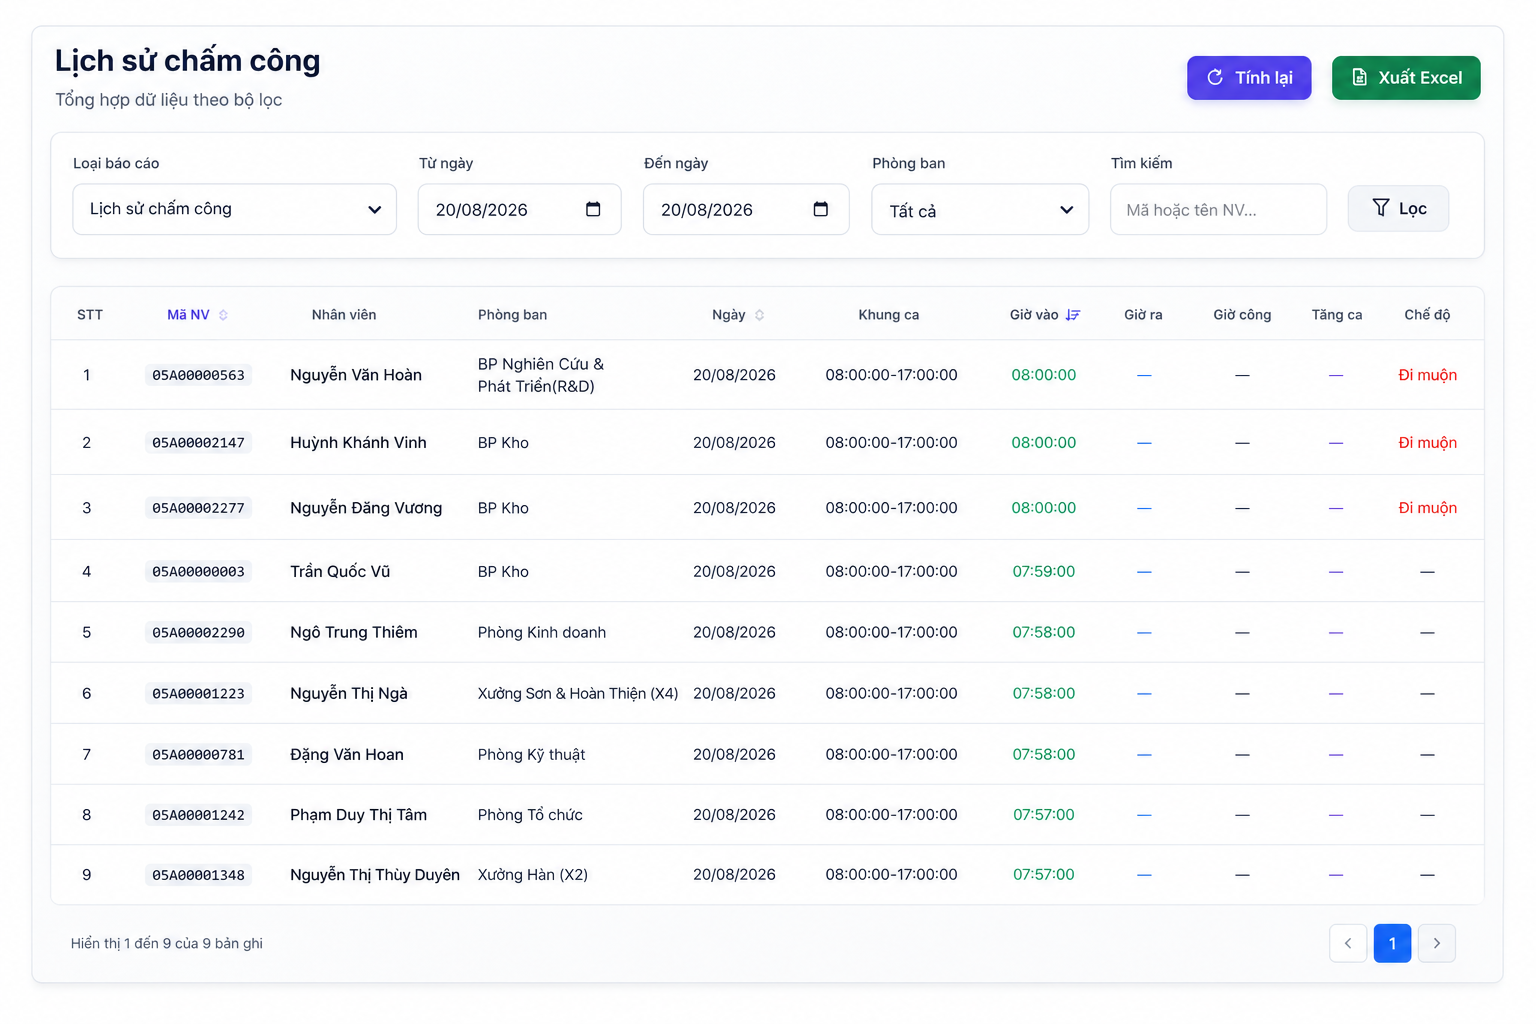
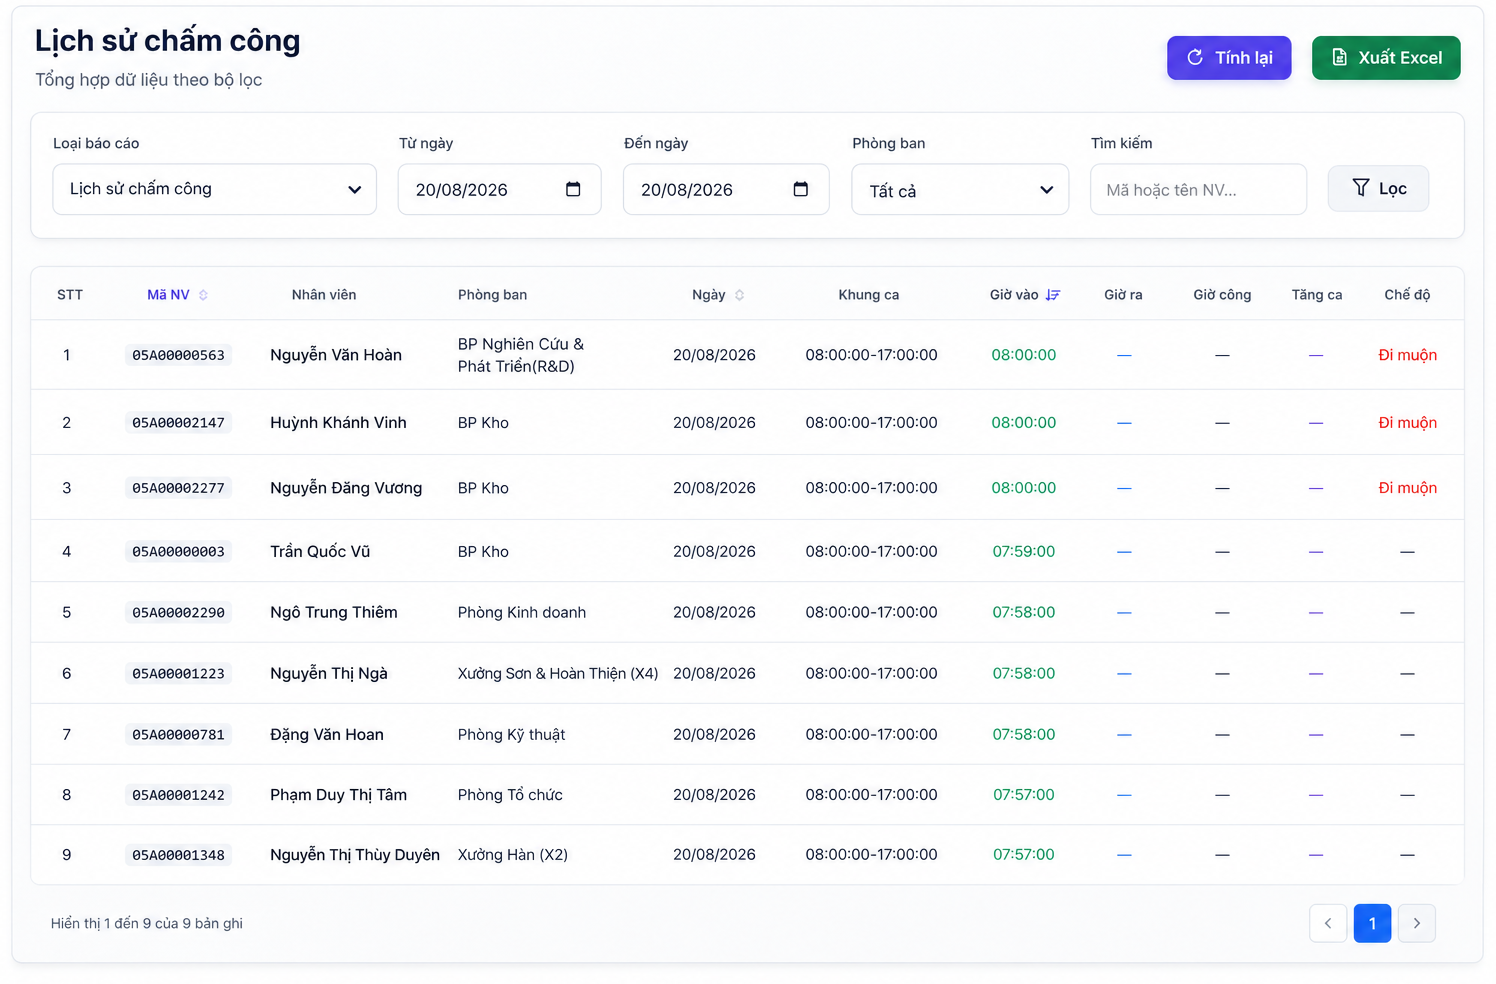
style: zoom in attendance history showcase with 7-col layout and cropped margin

diff --git a/src/components/site/PublicPages.tsx b/src/components/site/PublicPages.tsx
@@ -30,31 +30,37 @@ export function FeaturesContent({ locale }: { locale: Locale }) {
       </section>
 
       {/* MODULE 01 — CHẤM CÔNG */}
-      <section className="max-w-6xl mx-auto px-6 py-14 grid md:grid-cols-2 gap-12 items-center border-t border-white/[0.08]">
-        <div>
+      <section className="max-w-7xl mx-auto px-6 py-16 grid lg:grid-cols-12 gap-8 lg:gap-12 items-center border-t border-white/[0.08]">
+        <div className="lg:col-span-5 text-left">
           <span className="font-mono text-[12px] font-bold text-sky-400 block mb-2">{vi ? '01 / CHẤM CÔNG' : '01 / ATTENDANCE'}</span>
-          <h2 className="font-sans font-bold text-[28px] text-white mb-4">
+          <h2 className="font-sans font-bold text-[28px] sm:text-[34px] text-white mb-4 leading-tight">
             {vi ? 'Tính công tự động, không đối soát tay.' : 'Auto payroll calculation, no manual checks.'}
           </h2>
-          <ul className="font-sans text-[14px] text-white/65 space-y-3">
+          <p className="font-sans text-[15px] text-white/70 mb-6 leading-relaxed">
+            {vi ? 'Hệ thống tự động tổng hợp dữ liệu quẹt thẻ, chấm vân tay và nhận diện khuôn mặt để tính toán bảng công chính xác tuyệt đối.' : 'Automatically reconcile punch logs from biometric devices with payroll policies.'}
+          </p>
+          <ul className="font-sans text-[14px] text-white/65 space-y-3.5">
             <li className="flex gap-3"><span className="text-sky-400 font-bold">✓</span>Chấm công bằng vân tay, khuôn mặt hoặc thẻ từ, đồng bộ đa chi nhánh.</li>
             <li className="flex gap-3"><span className="text-sky-400 font-bold">✓</span>Tự động tính giờ công, tăng ca, đi trễ, nghỉ phép theo quy chế riêng.</li>
             <li className="flex gap-3"><span className="text-sky-400 font-bold">✓</span>Xuất bảng công trực tiếp sang phần mềm lương, không cần nhập lại.</li>
           </ul>
         </div>
-        <div className="glass-panel rounded-2xl shadow-card overflow-hidden border border-white/12">
-          <div className="flex items-center gap-1.5 px-4 h-10 border-b border-white/[0.08] bg-white/[0.03]">
-            <span className="w-2.5 h-2.5 rounded-full bg-rose-500/60" /><span className="w-2.5 h-2.5 rounded-full bg-amber-500/60" /><span className="w-2.5 h-2.5 rounded-full bg-emerald-500/60" />
-            <span className="font-sans text-[11px] text-white/40 ml-3">nATime · Lịch sử chấm công</span>
-          </div>
-          <div className="relative w-full">
-            <Image
-              src="/features-attendance.png"
-              alt="nATime - Lịch sử chấm công"
-              width={1440}
-              height={900}
-              className="w-full h-auto block"
-            />
+        <div className="lg:col-span-7">
+          <div className="glass-panel rounded-2xl shadow-[0_25px_60px_rgba(0,0,0,0.55)] overflow-hidden border border-white/15 hover:border-white/25 transition-all">
+            <div className="flex items-center gap-1.5 px-4 h-10 border-b border-white/[0.08] bg-white/[0.03]">
+              <span className="w-2.5 h-2.5 rounded-full bg-rose-500/60" /><span className="w-2.5 h-2.5 rounded-full bg-amber-500/60" /><span className="w-2.5 h-2.5 rounded-full bg-emerald-500/60" />
+              <span className="font-sans text-[11px] text-white/40 ml-3">nATime · Lịch sử chấm công</span>
+            </div>
+            <div className="relative w-full overflow-hidden">
+              <Image
+                src="/features-attendance.png"
+                alt="nATime - Lịch sử chấm công"
+                width={1536}
+                height={1024}
+                className="w-full h-auto block"
+                priority
+              />
+            </div>
           </div>
         </div>
       </section>
